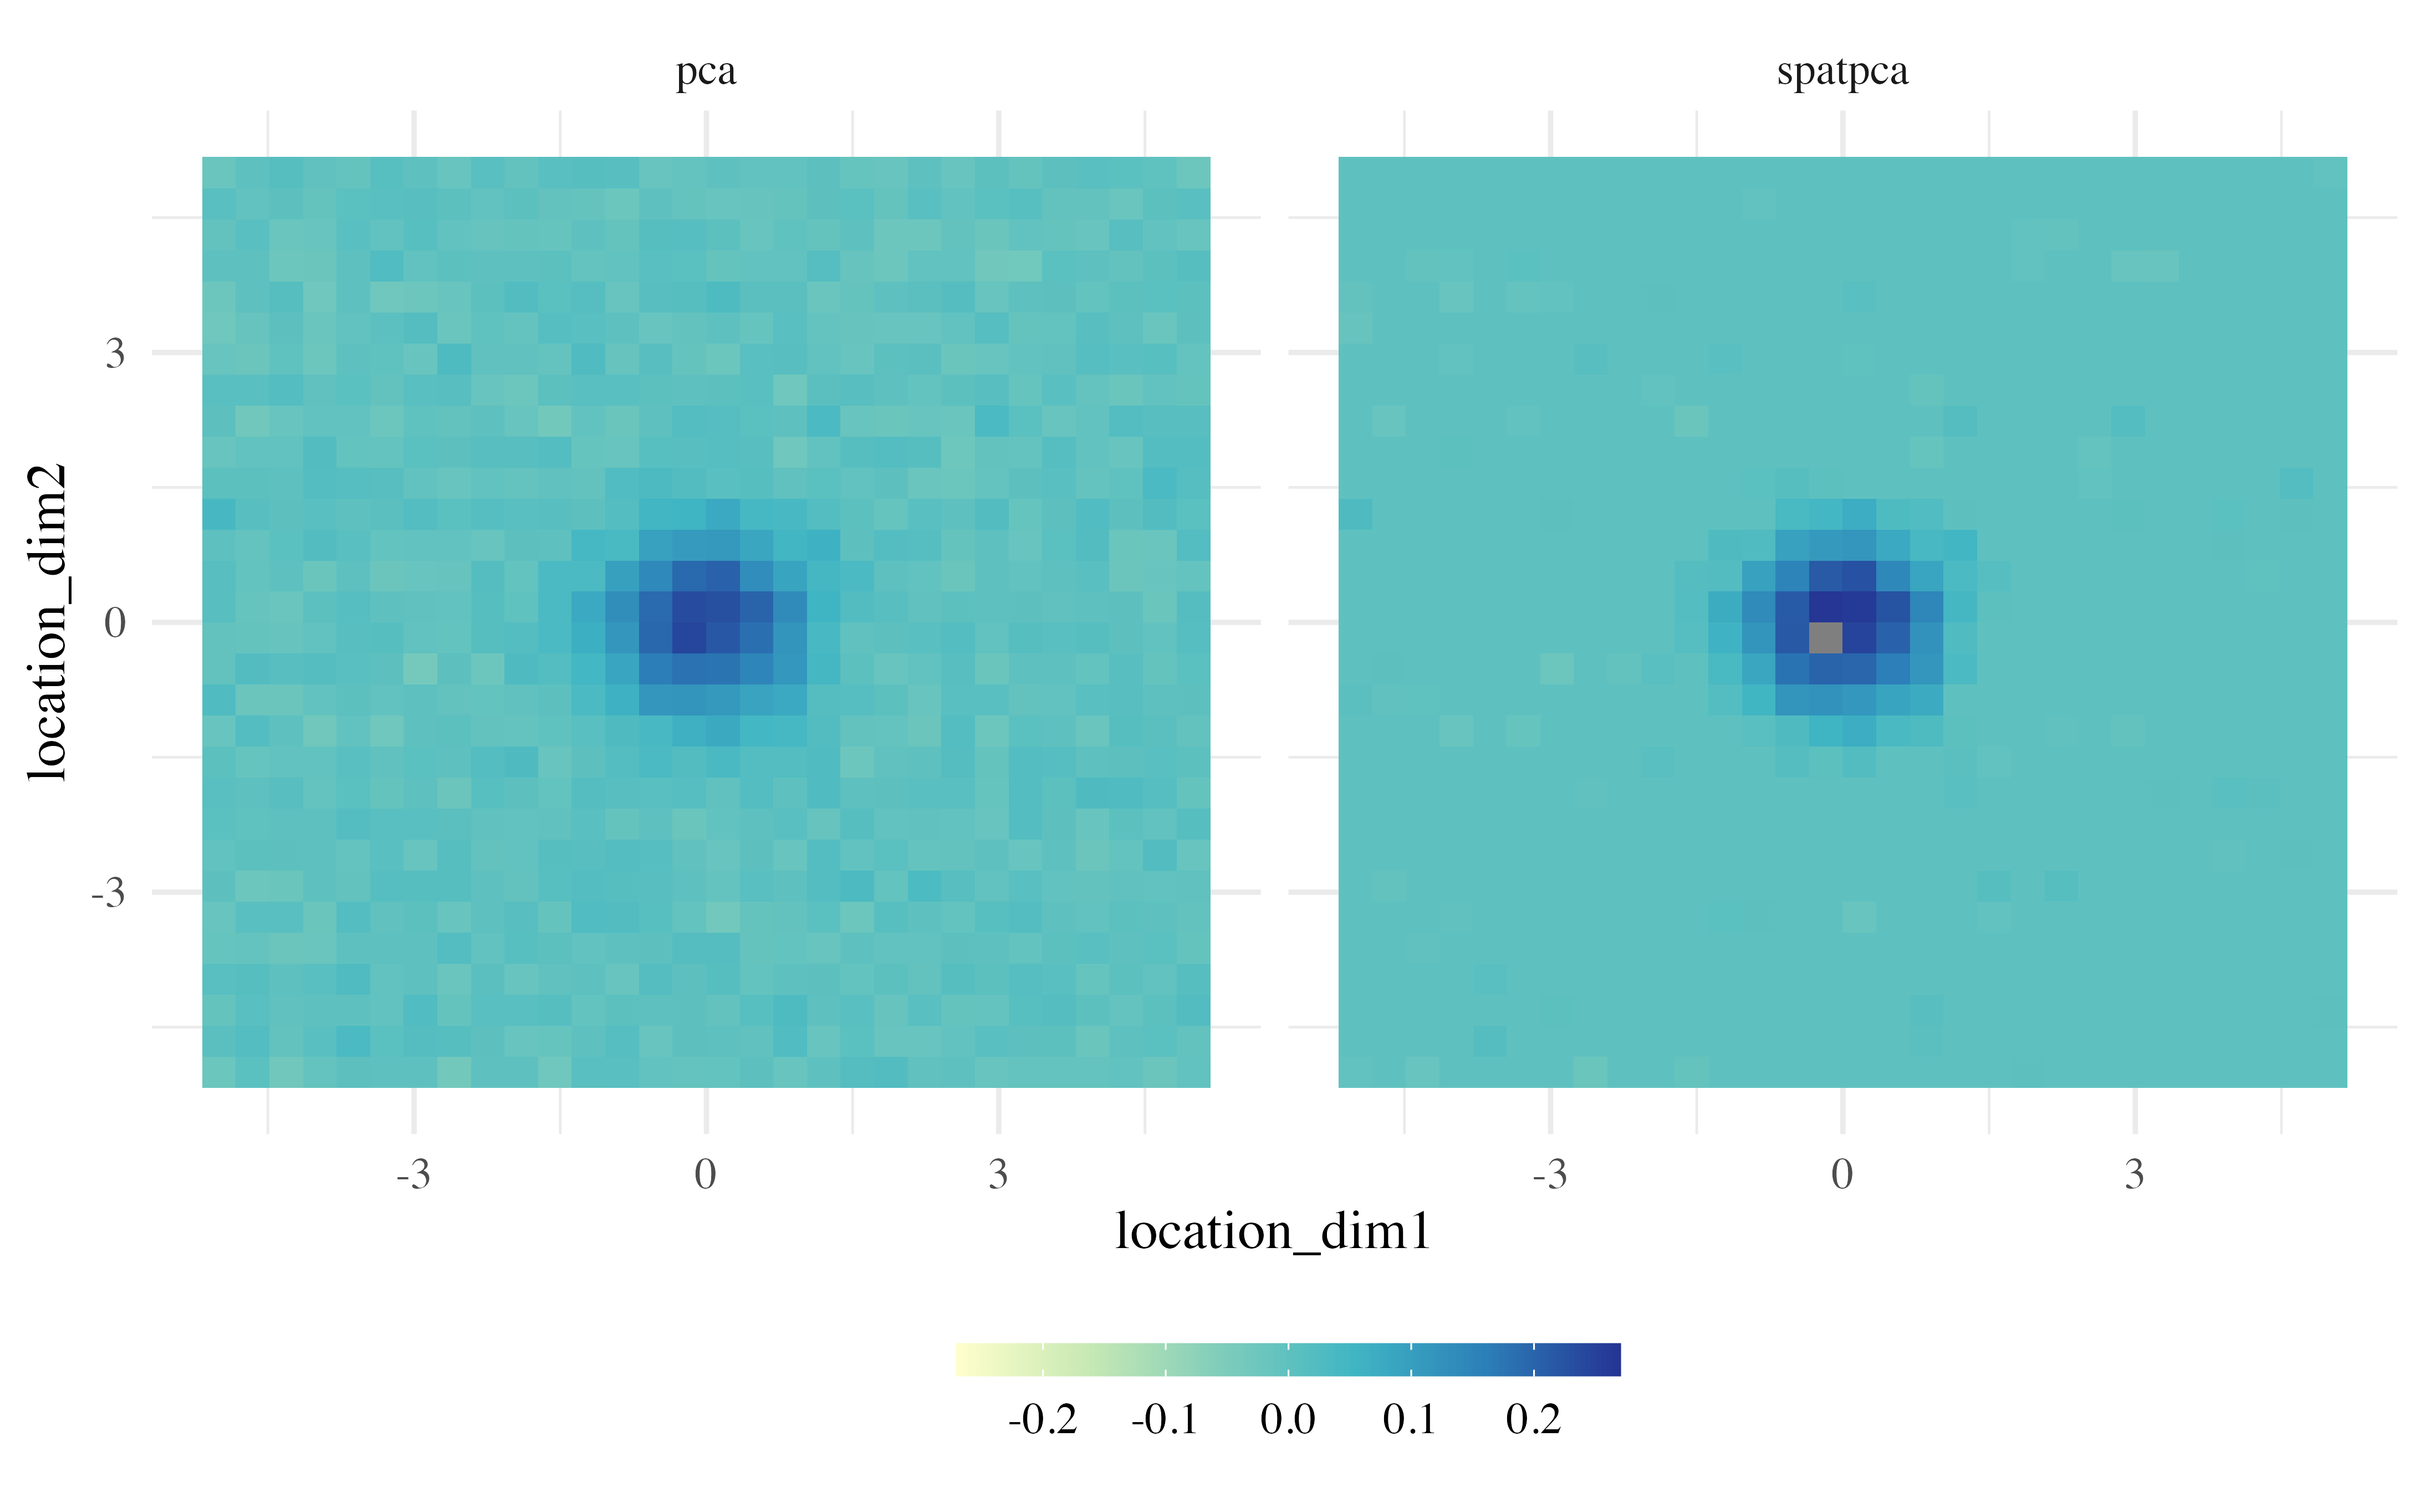
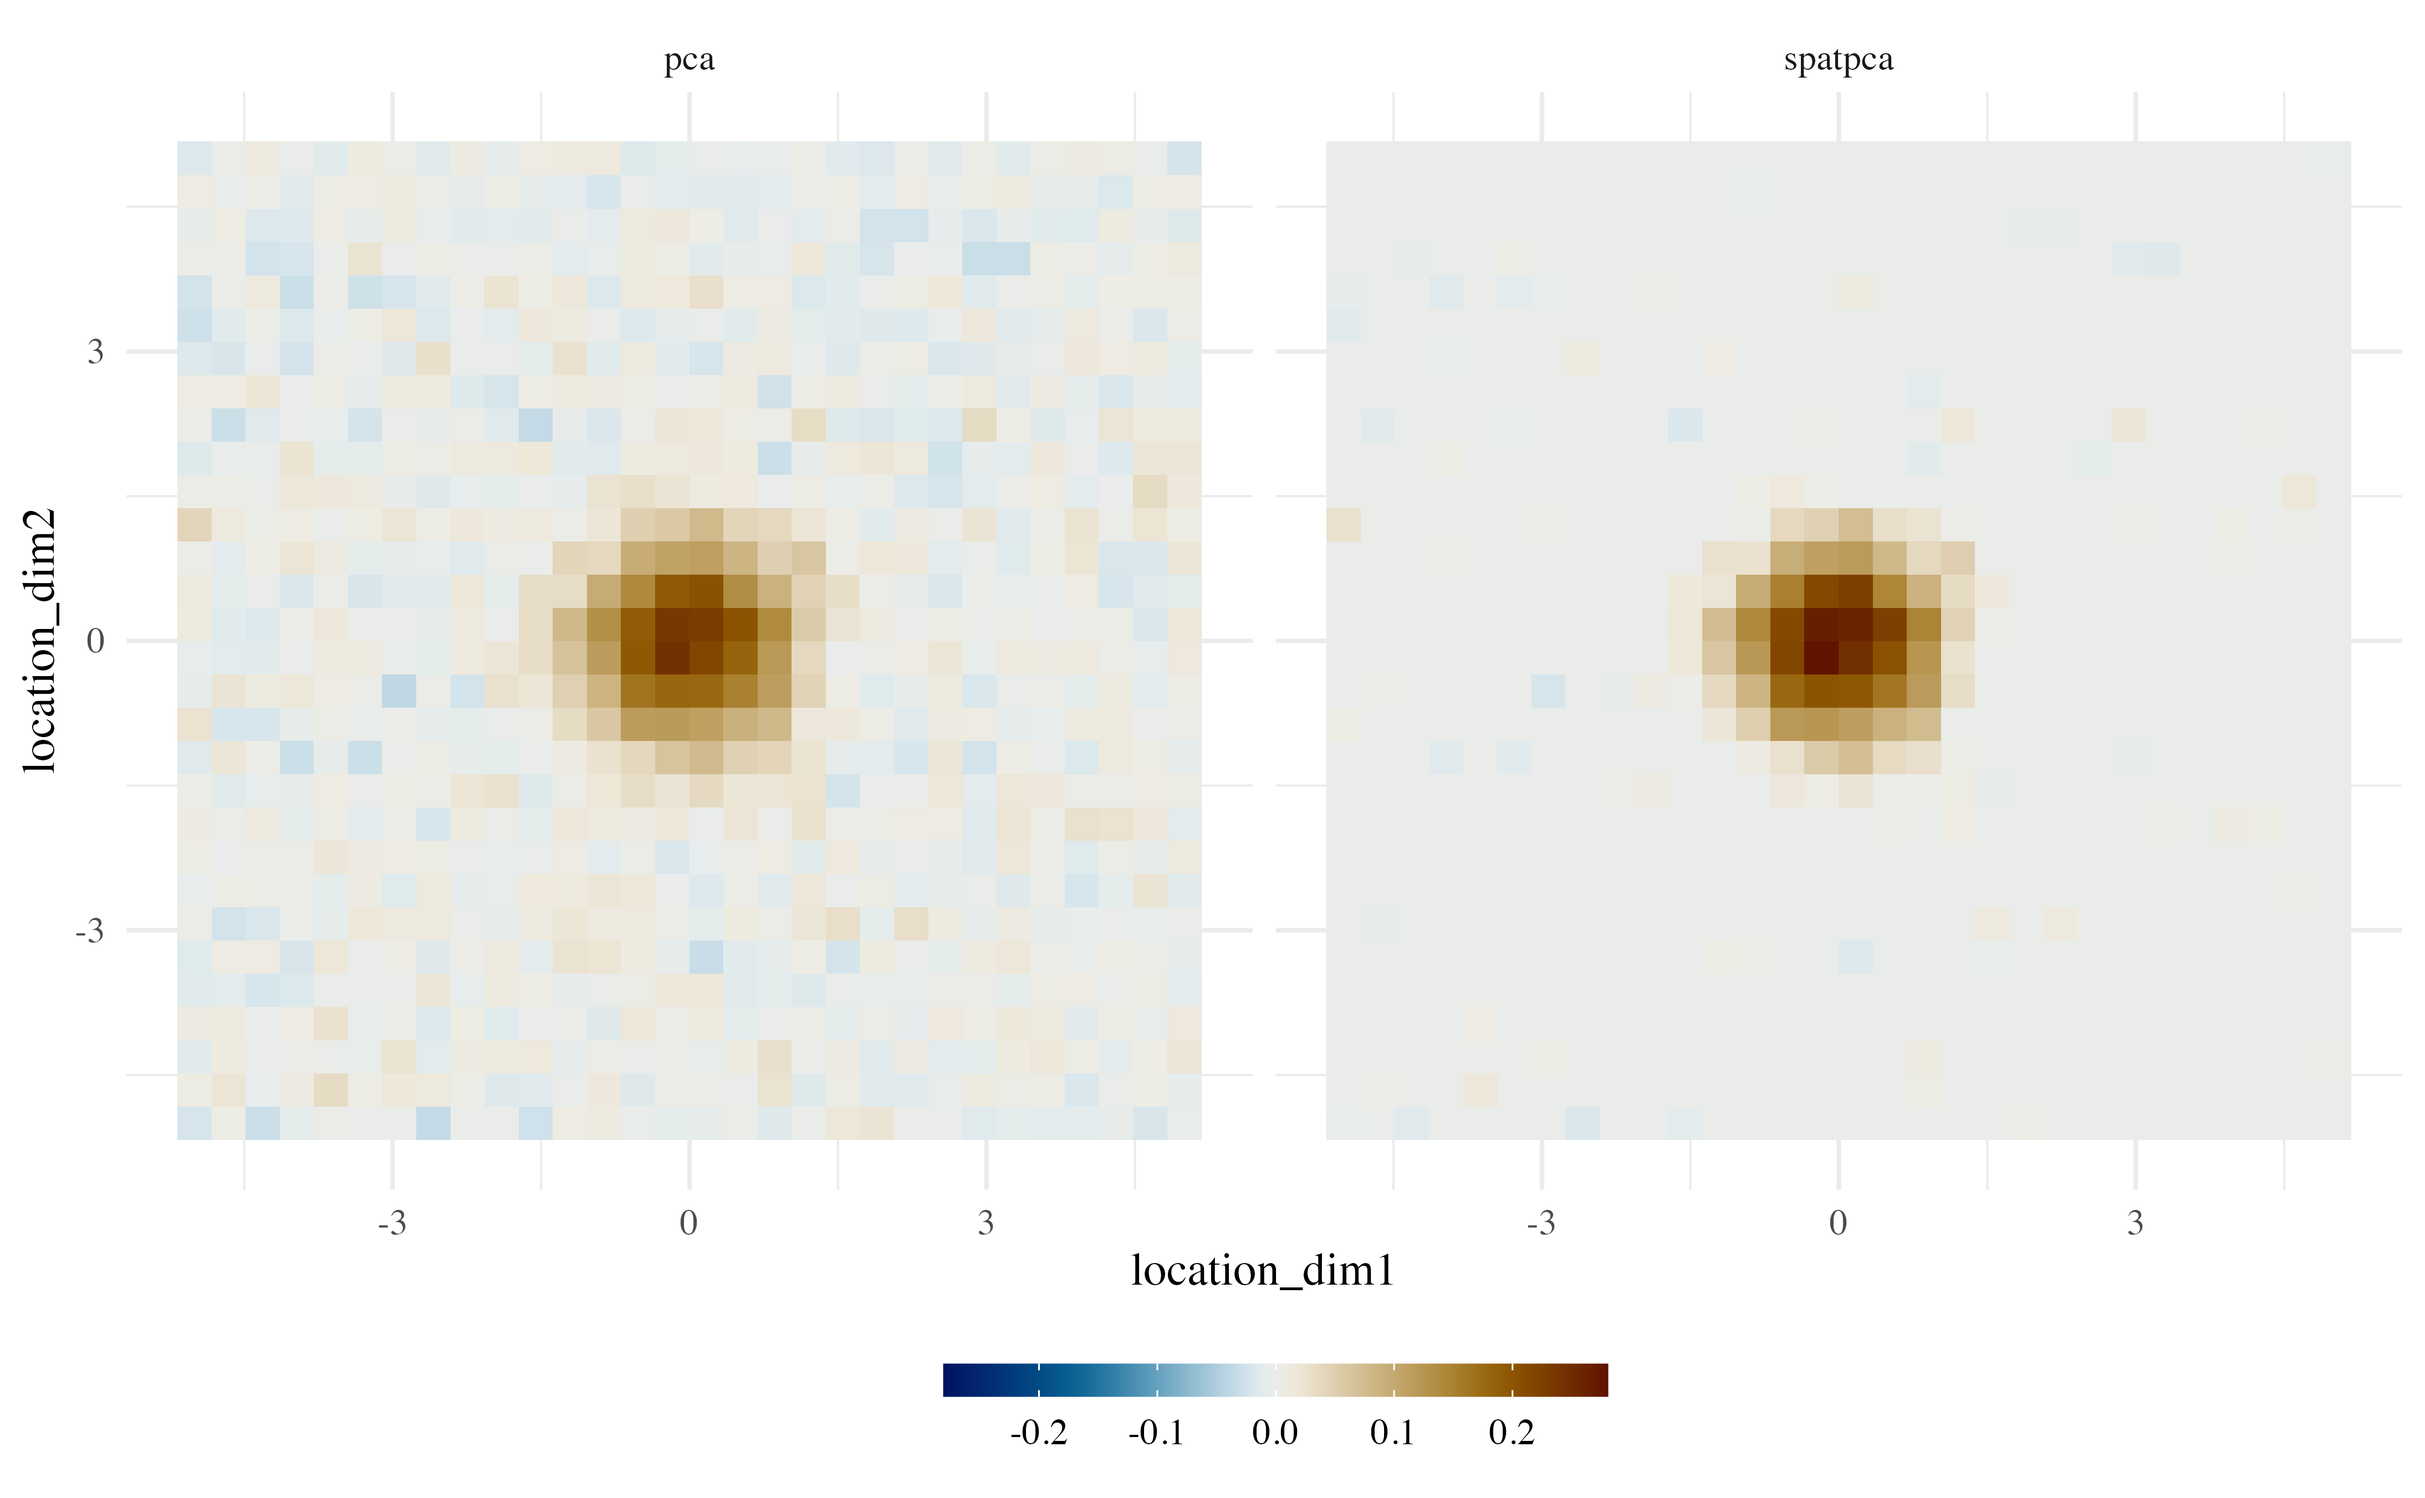
Built site for SpatPCA: 1.3.0.3@1416bf1

diff --git a/articles/demo-two-dim-location.html b/articles/demo-two-dim-location.html
@@ -31,7 +31,7 @@
       </button>
       <span class="navbar-brand">
         <a class="navbar-link" href="../index.html">SpatPCA</a>
-        <span class="version label label-default" data-toggle="tooltip" data-placement="bottom" title="Released version">1.3.0.2</span>
+        <span class="version label label-default" data-toggle="tooltip" data-placement="bottom" title="Released version">1.3.0.3</span>
       </span>
     </div>
 
@@ -105,25 +105,17 @@
 <span class="kw"><a href="https://rdrr.io/r/base/library.html">library</a></span><span class="op">(</span><span class="va"><a href="https://tidyr.tidyverse.org">tidyr</a></span><span class="op">)</span>
 <span class="kw"><a href="https://rdrr.io/r/base/library.html">library</a></span><span class="op">(</span><span class="va"><a href="https://gif.ski/">gifski</a></span><span class="op">)</span>
 <span class="kw"><a href="https://rdrr.io/r/base/library.html">library</a></span><span class="op">(</span><span class="va"><a href="https://github.com/NCAR/Fields">fields</a></span><span class="op">)</span>
-<span class="kw"><a href="https://rdrr.io/r/base/library.html">library</a></span><span class="op">(</span><span class="va">dichromat</span><span class="op">)</span>
+<span class="kw"><a href="https://rdrr.io/r/base/library.html">library</a></span><span class="op">(</span><span class="va"><a href="https://github.com/thomasp85/scico">scico</a></span><span class="op">)</span>
 
-<span class="va">base_theme</span> <span class="op">&lt;-</span> <span class="fu"><a href="https://ggplot2.tidyverse.org/reference/ggtheme.html">theme_minimal</a></span><span class="op">(</span>base_size <span class="op">=</span> <span class="fl">12</span>, base_family <span class="op">=</span> <span class="st">"Times"</span><span class="op">)</span> <span class="op">+</span>
+<span class="va">base_theme</span> <span class="op">&lt;-</span> <span class="fu"><a href="https://ggplot2.tidyverse.org/reference/ggtheme.html">theme_minimal</a></span><span class="op">(</span>base_size <span class="op">=</span> <span class="fl">10</span>, base_family <span class="op">=</span> <span class="st">"Times"</span><span class="op">)</span> <span class="op">+</span>
   <span class="fu"><a href="https://ggplot2.tidyverse.org/reference/theme.html">theme</a></span><span class="op">(</span>legend.position <span class="op">=</span> <span class="st">"bottom"</span><span class="op">)</span>
-<span class="va">bluescale</span> <span class="op">&lt;-</span> <span class="fu"><a href="https://rdrr.io/r/grDevices/colorRamp.html">colorRampPalette</a></span><span class="op">(</span><span class="fu"><a href="https://rdrr.io/r/base/c.html">c</a></span><span class="op">(</span>
-  <span class="st">"#FFFFCC"</span>,
-  <span class="st">"#C7E9B4"</span>,
-  <span class="st">"#7FCDBB"</span>,
-  <span class="st">"#40B6C4"</span>,
-  <span class="st">"#2C7FB8"</span> ,
-  <span class="st">"#253494"</span>
-<span class="op">)</span><span class="op">)</span>
 <span class="va">fill_bar</span> <span class="op">&lt;-</span> <span class="fu"><a href="https://ggplot2.tidyverse.org/reference/guides.html">guides</a></span><span class="op">(</span>fill <span class="op">=</span> <span class="fu"><a href="https://ggplot2.tidyverse.org/reference/guide_colourbar.html">guide_colourbar</a></span><span class="op">(</span>
     barwidth <span class="op">=</span> <span class="fl">10</span>,
     barheight <span class="op">=</span> <span class="fl">0.5</span>,
     label.position <span class="op">=</span> <span class="st">"bottom"</span><span class="op">)</span>
   <span class="op">)</span>
-<span class="va">coltab</span> <span class="op">&lt;-</span> <span class="fu">bluescale</span><span class="op">(</span><span class="fl">1024</span><span class="op">)</span>
-<span class="va">color_scale_limit</span> <span class="op">&lt;-</span> <span class="fu"><a href="https://rdrr.io/r/base/c.html">c</a></span><span class="op">(</span><span class="op">-</span><span class="fl">.27</span>, <span class="fl">.27</span><span class="op">)</span></code></pre></div>
+<span class="va">coltab</span> <span class="op">&lt;-</span> <span class="fu"><a href="https://rdrr.io/pkg/scico/man/scico.html">scico</a></span><span class="op">(</span><span class="fl">128</span>, palette <span class="op">=</span> <span class="st">'vik'</span><span class="op">)</span>
+<span class="va">color_scale_limit</span> <span class="op">&lt;-</span> <span class="fu"><a href="https://rdrr.io/r/base/c.html">c</a></span><span class="op">(</span><span class="op">-</span><span class="fl">.28</span>, <span class="fl">.28</span><span class="op">)</span></code></pre></div>
 </div>
 <div id="true-spatial-pattern-eigenfunction" class="section level4">
 <h4 class="hasAnchor">

diff --git a/reference/SpatPCA-package.html b/reference/SpatPCA-package.html
@@ -72,7 +72,7 @@
       </button>
       <span class="navbar-brand">
         <a class="navbar-link" href="../index.html">SpatPCA</a>
-        <span class="version label label-default" data-toggle="tooltip" data-placement="bottom" title="Released version">1.3.0.2</span>
+        <span class="version label label-default" data-toggle="tooltip" data-placement="bottom" title="Released version">1.3.0.3</span>
       </span>
     </div>
 
@@ -133,8 +133,8 @@
     <table class='table'>
 <tr><td>Package:</td><td>SpatPCA</td></tr>
 <tr><td>Type:</td><td>Package</td></tr>
-<tr><td>Version:</td><td>1.3.0.2</td></tr>
-<tr><td>Date:</td><td>2021-01-02</td></tr>
+<tr><td>Version:</td><td>1.3.0.3</td></tr>
+<tr><td>Date:</td><td>2021-01-03</td></tr>
 <tr><td>License:</td><td>GPL version 3</td></tr>
 </table>
 

diff --git a/articles/demo-one-dim-location.html b/articles/demo-one-dim-location.html
@@ -31,7 +31,7 @@
       </button>
       <span class="navbar-brand">
         <a class="navbar-link" href="../index.html">SpatPCA</a>
-        <span class="version label label-default" data-toggle="tooltip" data-placement="bottom" title="Released version">1.3.0.2</span>
+        <span class="version label label-default" data-toggle="tooltip" data-placement="bottom" title="Released version">1.3.0.3</span>
       </span>
     </div>
 

diff --git a/articles/index.html b/articles/index.html
@@ -71,7 +71,7 @@
       </button>
       <span class="navbar-brand">
         <a class="navbar-link" href="../index.html">SpatPCA</a>
-        <span class="version label label-default" data-toggle="tooltip" data-placement="bottom" title="Released version">1.3.0.2</span>
+        <span class="version label label-default" data-toggle="tooltip" data-placement="bottom" title="Released version">1.3.0.3</span>
       </span>
     </div>
 

diff --git a/reference/eigenEstimate.html b/reference/eigenEstimate.html
@@ -72,7 +72,7 @@
       </button>
       <span class="navbar-brand">
         <a class="navbar-link" href="../index.html">SpatPCA</a>
-        <span class="version label label-default" data-toggle="tooltip" data-placement="bottom" title="Released version">1.3.0.2</span>
+        <span class="version label label-default" data-toggle="tooltip" data-placement="bottom" title="Released version">1.3.0.3</span>
       </span>
     </div>
 

diff --git a/reference/index.html b/reference/index.html
@@ -71,7 +71,7 @@
       </button>
       <span class="navbar-brand">
         <a class="navbar-link" href="../index.html">SpatPCA</a>
-        <span class="version label label-default" data-toggle="tooltip" data-placement="bottom" title="Released version">1.3.0.2</span>
+        <span class="version label label-default" data-toggle="tooltip" data-placement="bottom" title="Released version">1.3.0.3</span>
       </span>
     </div>
 

diff --git a/reference/spatpca.html b/reference/spatpca.html
@@ -72,7 +72,7 @@
       </button>
       <span class="navbar-brand">
         <a class="navbar-link" href="../index.html">SpatPCA</a>
-        <span class="version label label-default" data-toggle="tooltip" data-placement="bottom" title="Released version">1.3.0.2</span>
+        <span class="version label label-default" data-toggle="tooltip" data-placement="bottom" title="Released version">1.3.0.3</span>
       </span>
     </div>
 

diff --git a/reference/spatpcaCV.html b/reference/spatpcaCV.html
@@ -72,7 +72,7 @@
       </button>
       <span class="navbar-brand">
         <a class="navbar-link" href="../index.html">SpatPCA</a>
-        <span class="version label label-default" data-toggle="tooltip" data-placement="bottom" title="Released version">1.3.0.2</span>
+        <span class="version label label-default" data-toggle="tooltip" data-placement="bottom" title="Released version">1.3.0.3</span>
       </span>
     </div>
 

diff --git a/reference/tpm2.html b/reference/tpm2.html
@@ -72,7 +72,7 @@
       </button>
       <span class="navbar-brand">
         <a class="navbar-link" href="../index.html">SpatPCA</a>
-        <span class="version label label-default" data-toggle="tooltip" data-placement="bottom" title="Released version">1.3.0.2</span>
+        <span class="version label label-default" data-toggle="tooltip" data-placement="bottom" title="Released version">1.3.0.3</span>
       </span>
     </div>
 

diff --git a/reference/tpmatrix.html b/reference/tpmatrix.html
@@ -72,7 +72,7 @@
       </button>
       <span class="navbar-brand">
         <a class="navbar-link" href="../index.html">SpatPCA</a>
-        <span class="version label label-default" data-toggle="tooltip" data-placement="bottom" title="Released version">1.3.0.2</span>
+        <span class="version label label-default" data-toggle="tooltip" data-placement="bottom" title="Released version">1.3.0.3</span>
       </span>
     </div>
 

diff --git a/404.html b/404.html
@@ -71,7 +71,7 @@
       </button>
       <span class="navbar-brand">
         <a class="navbar-link" href="index.html">SpatPCA</a>
-        <span class="version label label-default" data-toggle="tooltip" data-placement="bottom" title="Released version">1.3.0.2</span>
+        <span class="version label label-default" data-toggle="tooltip" data-placement="bottom" title="Released version">1.3.0.3</span>
       </span>
     </div>
 

diff --git a/authors.html b/authors.html
@@ -71,7 +71,7 @@
       </button>
       <span class="navbar-brand">
         <a class="navbar-link" href="index.html">SpatPCA</a>
-        <span class="version label label-default" data-toggle="tooltip" data-placement="bottom" title="Released version">1.3.0.2</span>
+        <span class="version label label-default" data-toggle="tooltip" data-placement="bottom" title="Released version">1.3.0.3</span>
       </span>
     </div>
 
